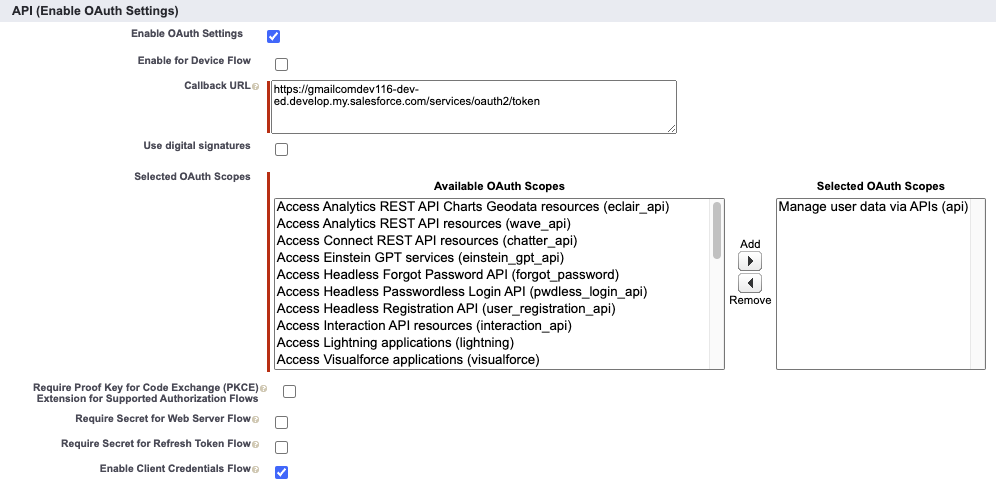
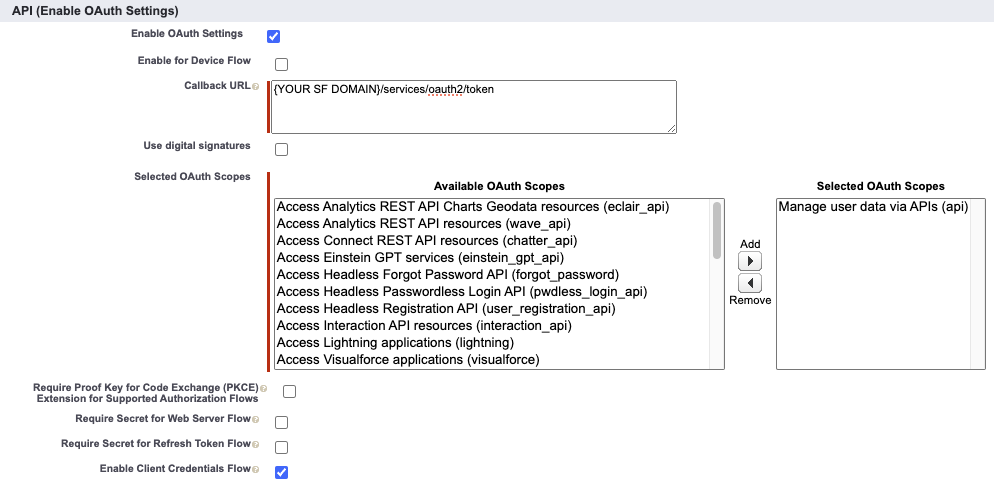
replace image, syntax updates

diff --git a/content/posts/go-salesforce/index.md b/content/posts/go-salesforce/index.md
@@ -12,11 +12,11 @@ Interact with your Salesforce org using Golang.
 
 ## Introduction
 
-[go-salesforce](https://github.com/k-capehart/go-salesforce) is a new Salesforce REST API Wrapper written in [Go (golang)](https://go.dev/doc/), a statically typed, compiled programming language built by Google. It aims to make it easier for Go developers to call basic Salesforce REST API endpoints (such as authentication, querying, inserting/updating records, etc.) by wrapping these calls in methods that do the hard work. Integrate an application into Salesforce with ease or utilize the power of Go by automating repetitive Salesforce data tasks.
+[go-salesforce](https://github.com/k-capehart/go-salesforce) is a new Salesforce REST API Wrapper written in [Go (golang)](https://go.dev/doc/), a statically typed, compiled programming language built by Google. It aims to make it easier for Go developers to call Salesforce REST API endpoints (such as authentication, querying, inserting/updating records, etc.) by wrapping these calls in methods that do all the hard work. Integrate an application into Salesforce with ease or utilize the power of Go by automating repetitive data tasks.
 
 Check out the repository in GitHub: [k-capehart/go-salesforce](https://github.com/k-capehart/go-salesforce)
 
-The code is entirely open source, and is a fun side project to explore the Salesforce REST API and learn Go. Give the project a star and [create an issue](https://github.com/k-capehart/go-salesforce/issues) to start contributing.
+The code is entirely open source, and was created as a fun side project to explore the Salesforce REST API and learn Go. Give the project a star and [create an issue](https://github.com/k-capehart/go-salesforce/issues) to start contributing.
 
 ## Features
 
@@ -30,15 +30,21 @@ Read more about `go-soql`: [forcedotcom/go-soql](https://github.com/forcedotcom/
 
 ### Work with Batches of Records
 
-Perform operations on collections of records. `go-salesforce` will split these records into batches and collect the results to be returned as errors if necessary. These methods are especially useful for datasets as they avoid Bulk API specific limits.
+Perform operations on collections of records. `go-salesforce` will split these records into batches and collect the results to be returned as errors if necessary. Insert, update, or delete large collections of records while avoiding Bulk API specific limits in your org.
+
+Read about [Salesforce API Limits](https://developer.salesforce.com/docs/atlas.en-us.salesforce_app_limits_cheatsheet.meta/salesforce_app_limits_cheatsheet/salesforce_app_limits_platform_api.htm), and [Bulk API Limits](https://developer.salesforce.com/docs/atlas.en-us.salesforce_app_limits_cheatsheet.meta/salesforce_app_limits_cheatsheet/salesforce_app_limits_platform_bulkapi.htm).
 
 ### Composite Requests
 
-Salesforce's Composite API allows multiple "subrequests" to be contained within a single "composite request", reducing the overall number of API calls. Up to 5000 records can be operated in a single request without needing to use Bulk API. Datasets larger than 5000 will need to use either the Collection or Bulk methods.
+[Salesforce's Composite API](https://developer.salesforce.com/docs/atlas.en-us.api_rest.meta/api_rest/resources_composite_composite_post.htm) allows multiple "subrequests" to be contained within a single "composite request", reducing the overall number of API calls. Up to 5000 records can be operated in a single request. Datasets larger than 5000 will need to use either the Collection or Bulk methods.
+
+Salesforce also supports dependent subrequests. For example, you can Insert a new Account and then Insert multiple child records associated with the Account all within the same request. This is very powerful and will be built upon in `go-salesforce`.
 
 ### Bulk API v2
 
 Create jobs to asynchronously insert, update, upsert, query, or delete large datasets. This can be done either through csv files or with runtime data. You can optionally wait for jobs to finish to process potential errors, or let it run in the background and fetch the results later.
+
+A common use case is to have predefined test data within a csv file that needs to be loaded into a Salesforce sandbox after a refresh. With `go-salesforce` you can automate this data loading process in just a few lines using the `InsertBulkFile` method.
 
 ## Example - Migrating Contacts
 
@@ -60,18 +66,19 @@ Fill out the following details, using your own email or that of an admin.
 - Connected App Name: Go Client
 - Contact Email: [your own email]
 - Enable OAuth Settings: TRUE
-- Callback URL: https://[your sfdc domain]/services/oauth2/token
+- Callback URL: https://[YOUR SF DOMAIN]/services/oauth2/token
 - Selected OAuth Scopes: Manage user data via APIs (api)
+- Enable Client Credentials Flow: TRUE
 
 ![Connected app with basic details information filled out out](../../../assets/img/third_post/connected_app1.png)
 ![Connected app with API details filled out out](../../../assets/img/third_post/connected_app2.png)
 
 Click "Save", then click on "Manage" and "Edit Policies".
-Under "Client Credentials Flow", set the "Run As" user to the user that should be assigned the flow.
+Under "Client Credentials Flow", set the "Run As" user to the user that should be authenticated.
 
 ![Selecting a running user for client credentials flow](../../../assets/img/third_post/running_user1.png)
 
-Click "Save", and then return to View page of the Connected App in App Manager. Note down the Consumer Key and Consumer Secret by clicking on "Managed Consumer Details".
+Click "Save", and then return to the View page of the Connected App in App Manager. Note down the Consumer Key and Consumer Secret by clicking on "Manage Consumer Details".
 
 ### 2. Create a new Go Module and connect to Salesforce
 
@@ -126,11 +133,11 @@ if err != nil {
 }
 ```
 
-This uses the `Init` method from `go-salesforce` to return a Salesforce instance using your client credentials from the previous step. Never publicly expose your ConsumerKey or Secret by securely storing credentials outside of your codebase.
+This uses the `Init` method from `go-salesforce` to return a Salesforce instance using your client credentials from the previous step. Never publicly expose your ConsumerKey or Secret. Always securely store credentials outside of your codebase before committing to a repository.
 
 ### 3. Query Contacts using go-soql
 
-There are two methods to query data using `go-salesforce`. One method would be to use the `Query` method to pass in a query as a string. However, Salesforce has created a package specifically marshalling SOQL queries. Read more about [go-soql](https://github.com/forcedotcom/go-soql).
+There are two options to query data using `go-salesforce`. One option would be to use the `Query` method to pass in a query as a string. However, Salesforce has created a package specifically for marshalling SOQL queries which will be utilized for this example. Read more about [go-soql](https://github.com/forcedotcom/go-soql).
 
 Replace `// TODO: Type Definitions` with the following type definitions:
 
@@ -150,6 +157,8 @@ type ContactSoqlQuery struct {
 }
 ```
 
+Note the `soql` struct tags that inform `go-soql` how to transform these definitions into queries.
+
 Replace `// TODO: Query Contacts` with this code:
 
 ```go
@@ -166,7 +175,7 @@ if err != nil {
 }
 ```
 
-`contactSoqlQuery` represents a SOQL query that selects the `Id` and `AccountId` fields, with a filter based on the given `AccountId`. The result is then unmarshalled into a slice of type `Contact`. This is useful because you don't have to separately maintain a query and a SObject type. The selected fields are always the same as the properties on the struct.
+`contactSoqlQuery` represents a SOQL query that selects the `Id` and `AccountId` fields, with a filter for `AccountId`. The `SELECT` clause is simply the fields from the `Contact` struct. The result is then unmarshalled into a slice of type `Contact`. This is useful because you don't have to separately maintain a query and a SObject type, since the fields are all pulled from the same definition.
 
 ### 4. Update Contact records
 
@@ -185,11 +194,11 @@ if err != nil {
 logger.Print("successfully updated " + strconv.Itoa(len(contacts)) + " contacts")
 ```
 
-This loops through the contacts variable that was populated from the query, and updates the `AccountId` to be that of the target account. The list is then passed as an argument to the `UpdateCollection()` method. The batch size is given as 200 but can be adjusted anywhere in the range of 1-200. If everything succeeds, then log how many Contacts were updated.
+This loops through the `contacts` variable that was populated from the query, and updates the `AccountId` to be that of the target account. The list is then passed as an argument to the `UpdateCollection` method. The batch size is given as 200 but can be adjusted anywhere in the range of 1-200. If everything succeeds, then log how many Contacts were updated.
 
 ### 5. Run the program
 
-The final code should look like this:
+The final code should look like this, but with your own org credentials:
 
 ```go
 package main
@@ -263,7 +272,7 @@ Source code: [k-capehart/go-salesforce-example](https://github.com/k-capehart/go
 Now that the code is complete, it can be executed. From the command line, build the package.<br>
 `go build migrate_contacts.go`
 
-Then run the program, replacing the Salesforce IDs below with those of Account Ids in your Salesforce org.<br>
+Run the program, replacing the Salesforce IDs below with those of Account Ids in your Salesforce org. The first Id is the Account with Contacts that should migrate to the second Account.<br>
 `./migrate_contacts 001Dn000013hAraIAE 001Dn00000NTt34IAD`
 
 ![the program successfully running on 2 contacts](../../../assets/img/third_post/run_program.png)
